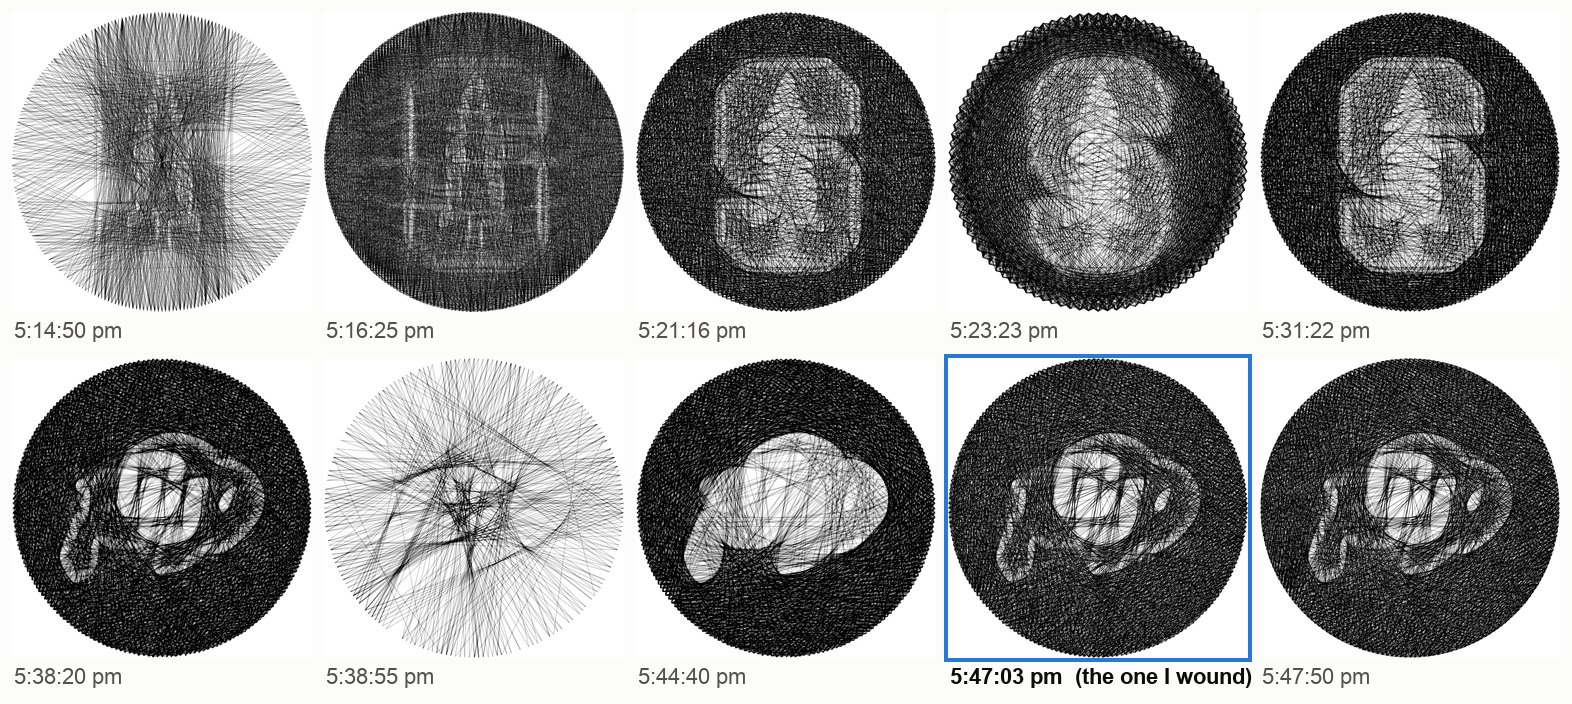
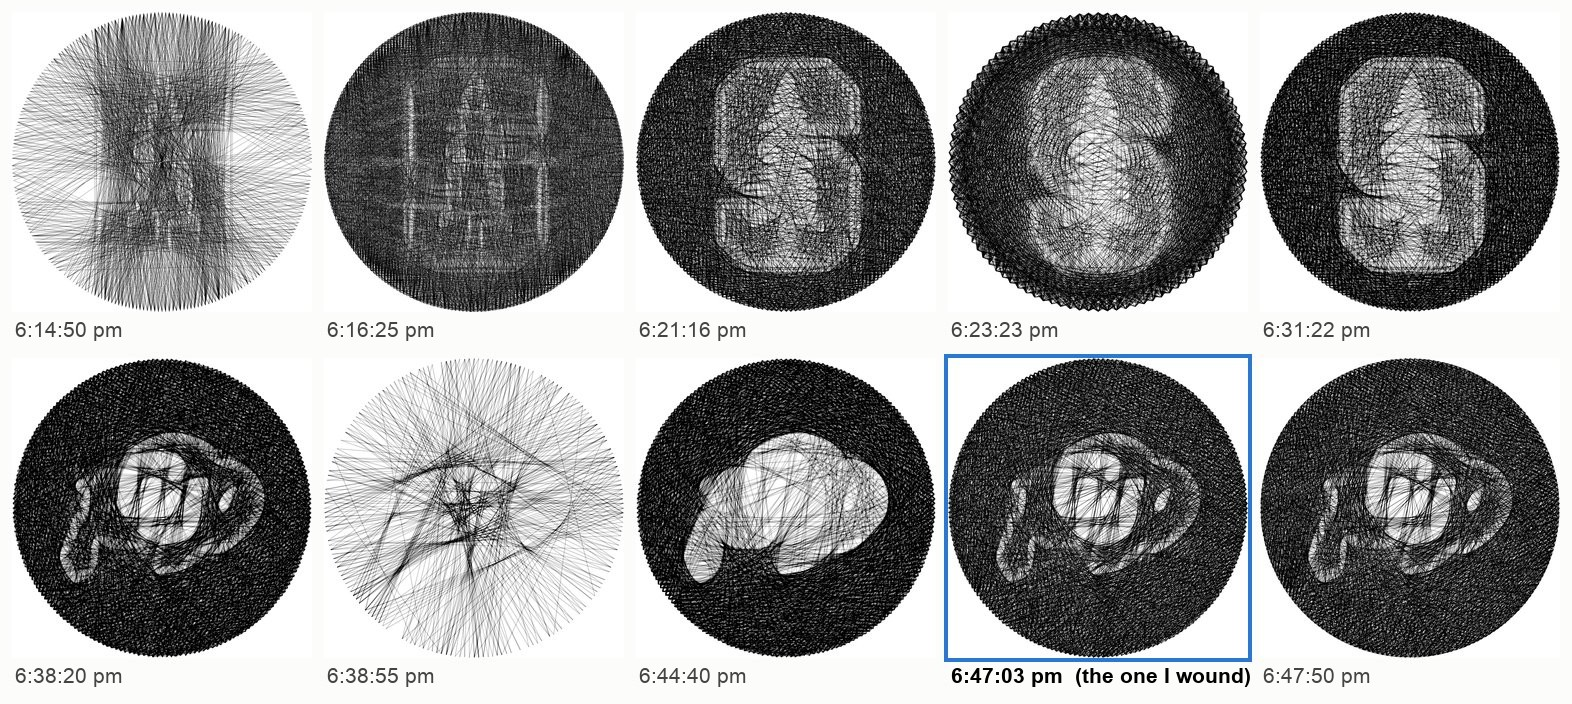
Updates and cleanup for publishing

diff --git a/README.md b/README.md
@@ -5,17 +5,17 @@
   <img src="media/winding-order.gif" width="330" alt="Time-lapse of all 1,853 lines going on in the order I wound them, with the logo appearing as the background fills in">
 </p>
 
-A program that turns an image into a list of nails to wrap thread around, and the piece I made with it: the Colorado Buffaloes logo in 1,853 lines of black thread, on a 12-inch round with 200 nails. That's about 463 yards of thread and 6.4 hours of winding. The GIF is every line in the order I wound it.
+A program that turns an image into a list of nails to wrap thread around, and the piece I made with it for my dad: the Colorado Buffaloes logo in 1,853 lines of black thread, on a 12-inch round with 200 nails. That's about 463 yards of thread, and it took me about 12 hours straight. The GIF is every line in the order I wound it.
 
 ## How it went
 
-### August 16, afternoon: a solver and 66 tries
+### August 16: a solver and 66 tries
 
-I started out planning a portrait, and the first runs that afternoon were on photos. A 12-inch circle is a small canvas, though, and I switched to logos: about 30 runs on the Stanford block S, then the CU Buffaloes logo.
+I'd wanted to try this ever since I saw a video of a guy making an open-source string art tool. This one was a gift for my dad, so the plan was his face, and the first runs that day were on photos of him. They didn't come out well, so I went looking for something simpler to recognize that would still mean something to him. I tried the Stanford block S for about 30 runs, then settled on the CU Buffaloes logo. CU is his alma mater.
 
-<img src="media/2026-08-16-solver-runs.jpg" width="820" alt="Ten solver simulations from the afternoon: the Stanford S at different contrast settings, then the CU logo, including an inverted run that came out as a starburst and a run that turned into a solid blob">
+<img src="media/2026-08-16-solver-runs.jpg" width="820" alt="Ten solver simulations from August 16: the Stanford S at different contrast settings, then the CU logo, including an inverted run that came out as a starburst and a run that turned into a solid blob">
 
-Those are 10 of the 66 runs between 4:41 and 5:48 pm (the photo runs aren't shown). The trick that made it work is the black background. The solver puts thread wherever the image is dark, so the background fills in with black and the logo stays bare board. On a gold board that's black and gold. With the target inverted (the 5:38:55 run above), the logo got the thread instead and it came out as a starburst. The run I wound is from 5:47 pm: 1,853 lines, 76% mean coverage.
+Those are 10 of the 66 runs between 5:41 and 6:48 pm (the photo runs aren't shown). The trick that made it work is the black background. The solver puts thread wherever the image is dark, so the background fills in with black and the logo stays bare board. On a gold board that's black and gold. With the target inverted (the 6:38:55 run above), the logo got the thread instead and it came out as a starburst. The run I wound is from 6:47 pm: 1,853 lines, 76% mean coverage.
 
 ### Before the 21st: the board
 
@@ -24,17 +24,17 @@ Those are 10 of the 66 runs between 4:41 and 5:48 pm (the photo runs aren't show
   <img src="media/2026-08-22-side.jpg" width="380" alt="The board from the side, held in my hand, showing its thickness and the nails">
 </p>
 
-200 nails, 4.5 mm apart on an 11.3-inch circle, laid out with a true-scale template from `template.py` (it prints a 1-inch calibration square on every page, so you can check the printer didn't scale it). I painted every 10th nail head red and every 5th green, so I could count off from the nearest mark while winding.
+I got the materials at Michaels, painted the base gold, and put in 200 pin nails, 4.5 mm apart on an 11.3-inch circle, laid out with a true-scale template from `template.py` (it prints a 1-inch calibration square on every page, so you can check the printer didn't scale it). The drilling and nailing took about 3 hours. I painted every 10th nail head red and every 5th green, so I could count off from the nearest mark while winding.
 
 ### August 21: the winder, then winding
 
 <img src="media/place-winder.png" width="820" alt="The winding app: the next nail, 139, in huge magenta, Back and Next buttons, Auto at 8000 ms, Voice, a ring of all 200 nails with the current chord dashed in, and a zoomed view around nail 139">
 
-That morning I built a visual winder (`place.py`) to sit next to the board. It shows the next nail as a huge number, draws the whole ring with the same red and green marks as the board, and zooms in around the target nail. Space goes to the next line, it can auto-advance on a timer or listen for "next" and "back", and it saves my position on every move. There's also a "Find my spot" tab: type the last few nails you wrapped and it shows every place in the sequence that matches. It tracks working time, and it doesn't count gaps over 5 minutes, so breaks don't wreck the ETA.
+First I built a visual winder (`place.py`) to sit next to the board. It shows the next nail as a huge number, draws the whole ring with the same red and green marks as the board, and zooms in around the target nail. Space goes to the next line, it can auto-advance on a timer or listen for "next" and "back", and it saves my position on every move. There's also a "Find my spot" tab: type the last few nails you wrapped and it shows every place in the sequence that matches. It tracks working time, and it doesn't count gaps over 5 minutes, so breaks don't wreck the ETA.
 
 <img src="media/2026-08-21-1755-winding.jpg" width="330" alt="The piece partway through on the evening of August 21, the logo's outline just starting to show">
 
-That's 5:55 pm, partway in. The last line went on at 10:02 pm. The log says 6.4 hours of actual winding, about 12 seconds a line overall, and the last 400 lines went on at about 8 seconds each (which matches the auto-advance default, 8 seconds).
+That's 5:55 pm, partway in. I used the voice control, so I just said "next" after every wrap. The last line went on at 11:02 pm. All in, I spent about 12 hours straight on it, even though it was supposed to take 6 or so. The winder's log says 6.4 hours, but it only counts time between lines and drops any gap over 5 minutes. The last 400 lines went on at about 8 seconds each.
 
 ## How it works
 
@@ -90,3 +90,7 @@ python place.py --sequence out/sequence.json      # then open http://127.0.0.1:5
 - 12 inches is an honest canvas but it isn't a photograph. The well-known portrait pieces use 3,000 to 4,000 lines on boards twice this size.
 - Ideas for a better solver: a lookahead or beam search instead of pure greedy, comparing blurred images instead of raw pixels (closer to what your eye does), denser nails where the image has detail, and more than one thread color.
 - The Colorado Buffaloes logo belongs to the University of Colorado. The logo image itself isn't in this repo, only the nail sequence made from it.
+
+## License
+
+MIT ([`LICENSE`](LICENSE)). That covers the code, not the logo.
